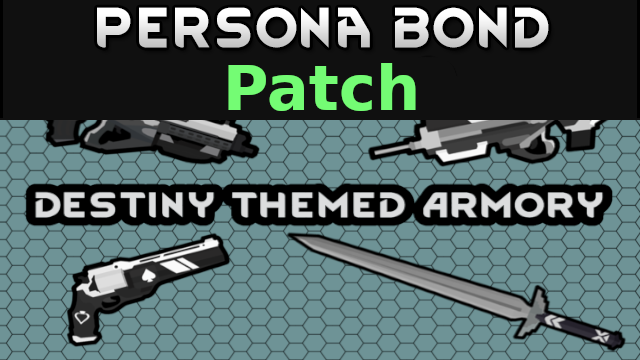
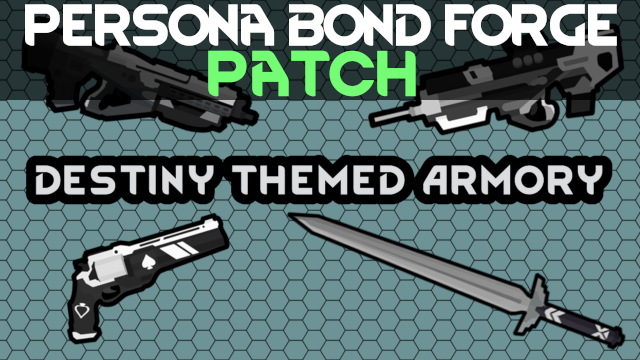
Update Preview.png and README.md

diff --git a/README.md b/README.md
@@ -1,7 +1,14 @@
 # Persona Bond Patch for Destiny Themed Armory
 
-
 ![](https://github.com/Daria40K/Persona-Bond-Patch-for-Destiny-Themed-Armory/blob/main/About/Preview.png)
+
+## Required Mods
+- [Persona Bond Forge](https://steamcommunity.com/workshop/filedetails/?id=2178003816) (Steam)
+- [Destiny Themed Armory](https://steamcommunity.com/sharedfiles/filedetails/?id=2789885198) (Steam)
+
+## Download
+- [Steam](https://steamcommunity.com/sharedfiles/filedetails/?id=2791964980)
+- [GitHub](https://github.com/Daria40K/Persona-Bond-Patch-for-Destiny-Themed-Armory/releases)
 
 ## Weapons Patch
 ### Ranged
